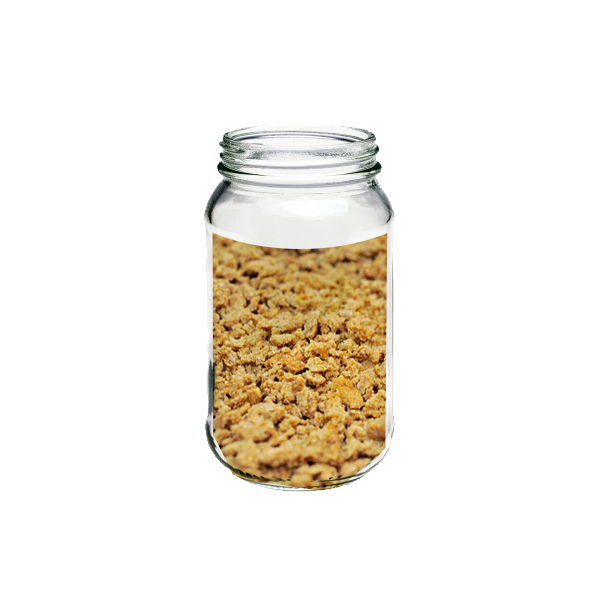
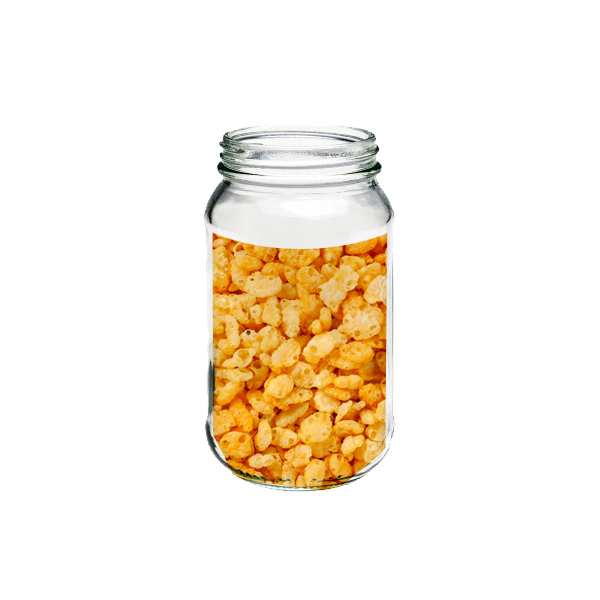
better images and gitignore

Changed region(s): [[0.33, 0.39, 0.66, 0.84]]

diff --git a/scripts/modules/MemoryPalace/directives/mp-memory-test-image-to-number.dir.js b/scripts/modules/MemoryPalace/directives/mp-memory-test-image-to-number.dir.js
@@ -18,8 +18,7 @@
 
                     /*============ MODEL ============*/
 
-                    $scope.showMode = 'none';
-
+                    $scope.showNumber = false;
                     $scope.showGroups = false;
 
                     $scope.item = {};
@@ -28,24 +27,21 @@
                     /*============ MODEL DEPENDENT METHODS ============*/
 
                     var getNextItem = function () {
+                        $scope.showNumber = false;
+                        $scope.showGroups = false;
                         $scope.item = MemoryTestService.getRandomItem();
                     };
 
 
                     /*============ BEHAVIOR ============*/
 
-                    $scope.toggleShowMode = function () {
-                        if ($scope.showMode === 'none') {
-                            $scope.showMode = 'group';
-                        } else if ($scope.showMode === 'group') {
-                            $scope.showMode = 'all';
-                        } else {
-                            $scope.showMode = 'none';
-                        }
-                    };
-
                     $scope.toggleShowImageGroups = function () {
                         $scope.showGroups = !$scope.showGroups;
+                    };
+
+                    $scope.toggleShowMode = function () {
+                        $scope.showNumber = !$scope.showNumber;
+                        $scope.showGroups = $scope.showNumber;
                     };
 
                     $scope.setItemByGroupData = function (itemNumberString) {
@@ -68,7 +64,7 @@
                 '<div class="row">',
                     '<div class="col-xs-4 col-xs-offset-4 image-column text-center">',
 
-                        '<span class="image-wrapper" ng-click="getNextItem()">',
+                        '<span class="image-wrapper no-select" ng-click="getNextItem()">',
                             '<img src="images/{{item.numberString}}.jpg"/>',
                             '<div class="image-title">{{item.title}}</div>',
                         '</span>',
@@ -79,29 +75,39 @@
                 '<div class="row">',
                     '<div class="col-xs-6 col-xs-offset-3 text-center">',
 
-                        '<div class="mp-number well" ng-click="toggleShowMode()">',
-                            '<span class="mp-number-digit">',
-                                '<i class="fa fa-question-circle" ng-if="showMode === \'none\'"></i>',
-                                '<span ng-if="showMode !== \'none\'">{{item.groupNumber}}</span>',
+                        '<div class="mp-number well no-select" ng-click="toggleShowMode()">',
+
+                            '<span ng-if="!showNumber">',
+                                '<span class="mp-number-digit">',
+                                    '<i class="fa fa-question-circle"></i>',
+                                '</span>',
+                                '<span class="mp-number-digit">',
+                                    '<i class="fa fa-question-circle"></i>',
+                                '</span>',
                             '</span>',
-                            '<span class="mp-number-digit">',
-                                '<i class="fa fa-question-circle" ng-if="showMode !== \'all\'"></i>',
-                                '<span ng-if="showMode === \'all\'">{{item.itemNumber}}</span>',
+
+                            '<span ng-if="showNumber">',
+                                '<span class="mp-number-digit">',
+                                    '<span>{{item.groupNumber}}</span>',
+                                '</span>',
+                                '<span class="mp-number-digit">',
+                                    '<span>{{item.itemNumber}}</span>',
+                                '</span>',
                             '</span>',
+
                         '</div>',
 
                     '</div>',
                 '</div>',
 
                 '<div class="row">',
-                    '<div class="col-xs-6 col-xs-offset-3 text-center">',
+                    '<div class="col-xs-6 col-xs-offset-3 text-center no-select">',
 
                         '<div class="row">',
                             '<div class="col-xs-6 text-center">',
                                 '<button class="btn btn-default btn-full-width" ng-click="toggleShowMode()">',
-                                    '<span ng-if="showMode === \'none\'">Show Group Number</span>',
-                                    '<span ng-if="showMode === \'group\'">Show Complete Number</span>',
-                                    '<span ng-if="showMode === \'all\'">Hide Number</span>',
+                                    '<span ng-if="!showNumber">Show Number</span>',
+                                    '<span ng-if="showNumber">Hide Number</span>',
                                 '</button>',
                             '</div>',
                             '<div class="col-xs-6 text-center">',
@@ -115,7 +121,7 @@
                     '</div>',
                 '</div>',
 
-                '<div class="row margin-top-sm row-thin-columns">',
+                '<div class="row margin-top-sm row-thin-columns" ng-if="showGroups">',
                     '<div class="col-xs-1"></div>',
 
                     '<div class="col-xs-1" ng-repeat="groupNumber in item.groupNumbers track by $index" ng-click="setItemByGroupData(groupNumber)">',

diff --git a/scripts/modules/MemoryPalace/services/MemoryTestService.svc.js b/scripts/modules/MemoryPalace/services/MemoryTestService.svc.js
@@ -22,8 +22,8 @@
                 '01': 'Jar of Feathers',
                 '02': 'Jar of Leaves',
                 '03': 'Jar of Pops Cereal',
-                '04': 'Jar of GrapeNuts Cereal',
-                '05': 'Jar of Flour',
+                '04': 'Jar of Rice Krispies',
+                '05': 'Jar of Pete Moss',
                 '06': 'Jar of Dirt',
                 '07': 'Jar of Sand',
                 '08': 'Jar of Coins',

diff --git a/styles/styles.css b/styles/styles.css
@@ -79,7 +79,7 @@ p {
     text-align: center;
 }
 
-.noselect {
+.no-select {
   -webkit-touch-callout: none; /* iOS Safari */
   -webkit-user-select: none;   /* Chrome/Safari/Opera */
   -khtml-user-select: none;    /* Konqueror */
